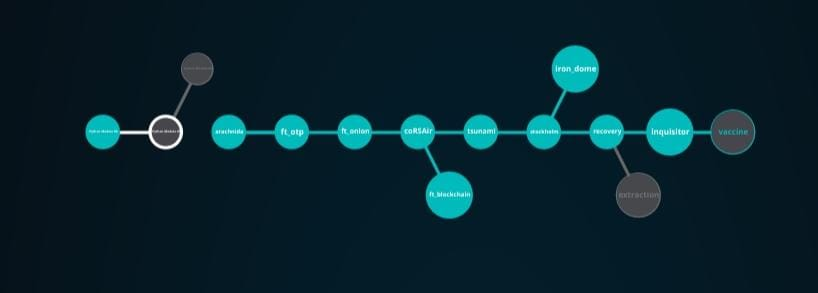
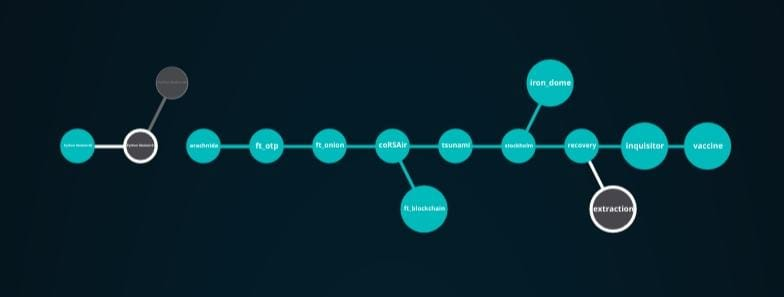
update

Changed region(s): [[0.0612, 0.1536, 0.949, 0.7986]]

diff --git a/README.md b/README.md
@@ -18,13 +18,14 @@ Over the course of 8 weeks, I was able to learn competencies in areas such as cr
 |   arachnida   | Web Scrapping & EXIF data       |   **125** / 100  |
 |   coRSAir   | Cryptography & Vulnerable Ciphers    |   **100** / 100  |
  |    ft_otp     | Time-based_one-time_password creation   |   **125** / 100   |
-|   ft_onion    | Web server with Docker that shows a webpage on the Tor network   							    |   **125** / 100  |
+|   ft_onion    | Web server with Docker that shows a webpage on the Tor network     |   **125** / 100  |
 |ft_blockchain   | Proof-of-work algorithm            |   **100** / 100  |
 |    tsunami    | Buffer & stack overflows on Windows XP         |   **100** / 100  |
 |   stockholm   | Program that simulates the WannaCry ransomware   |   **100** / 100  |
 |   iron_dome   |  Daemon service to monitoring illegal activity on Linux |   **125** / 100  |
 |  recovery|  Recovery system info on Windows 10 |   **100** / 100  |
 |  inquisitor|  ARP spoofing  |   **100** / 100  |
+|  vaccine| SQL injection  |   **100** / 100  |
 
 <p></p>
 

diff --git a/vaccine/README.md b/vaccine/README.md
@@ -1,0 +1,13 @@
+![ [python_version](https://img.shields.io/badge/python-3.9%20%7C%203.10-blue) ](https://img.shields.io/badge/python-3.9%20%7C%203.10-blue)
+# vaccine
+
+____________________________________
+ Bootcamp Cybersecurity | 42 Málaga
+ 
+     v   a   c   c   i   n   e
+____________________________________
+
+
+May 2023
+
+<p align="center"> <img src="./vaccine.jpeg" alt="image" width="456" /> </p>
